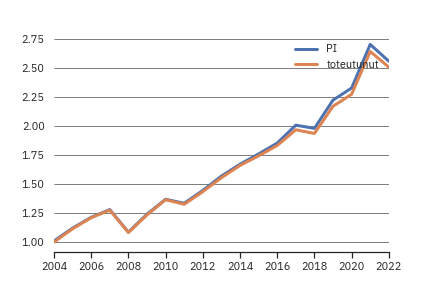
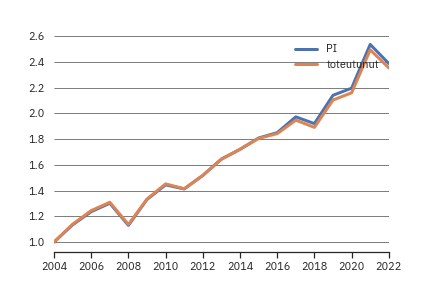
osakkeet

diff --git a/_posts/2022-10-14-sijoitusriski.md b/_posts/2022-10-14-sijoitusriski.md
@@ -1,6 +1,6 @@
 ---
 title: 'Pitäisikö työeläkkeissä sijoittaa osakkeisiin enemmän?'
-date: 2022-10-25
+date: 2022-10-26
 permalink: /posts/2022/10/osakkeet/
 image: /images/pts/2men.png
 largeimage: /images/pts/2men.png
@@ -11,79 +11,104 @@ tags:
   - sijoittaminen
 ---
 
-Työeläkejärjestelmä sijoittaa varat tuottavasti ja turvaavasti. Paino on perinteisesti ollut turvaavuuden puolella, mutta viimeisten 5 vuoden aikana
-osakeriskin osuutta on kasvatettu ja tuotot ovat olleet hyviä. Voisiko osakepainoa nostaa edelleen?
+Osakkeet ovat olleet työeläkeyhtiöille loistava sijoituskohde viime vuosina.
+Vuoden 2017 uudistuksessa osakesijoitusten osuutta lisättiin ja se on kannattanut hyvin. 
+Varoja on kertynyt arviolta 5,4 miljardia euroa enemmän uudistuksen ansiosta. Mutta jäikö matka kesken?
+Pitäisikö osakkeiden osuutta lisätä edelleen?
 
-![Reaalituotot](/images/pts/tuotot_toteuma.png)
-Kuvio 1. Reaaliset vuosituotot TyELissä vuosina 2006 - 2021. Vuoden 2022 tuotot ovat alkuvuoden tuotot.
+Työeläkejärjestelmän horisontti on pitkä. Viimeiset eläkejärjestelmän jo tehdyistä eläkelupauksista toteutuu vasta sadan vuoden päästä.
+Eläkejärjestelmän on turha katsoa liikaa seuraavan neljännesvuoden tuottoja. Tähtäin pitää olla pidemmällä: työeläkkeissä
+kvartaali kestää 25 vuotta. Tämä mahdollistaa nykyistä korkeamman sijoitusriskitason. 
 
-Viime vuosina sijoitustuotot ovat olleet hyviä (Kuvio 2). 
-Korkean inflaation vuoksi vuoden 2022 heinäkuun alkuun mennessä tulleet tuotot ovat reaalisesti erittäin heikot.
-
-Sijoitustuotot riippuvat sijoitusjakaumasta: mitä riskipitoisempi sijoitusjakauma, sitä parempia ovat tuotot.
-Sijoitusjakauman riskipitoisuutta taas säädetään markkinanäkemyksen ja riskinkantokyvyn perusteella. Laitoksen vakavaraisuus
-taas määrittää riskinkantokykyä. 
-
-Vuoden 2017 eläkeuudistuksessa sovittiin sijoitusriskin lisäämisestä, kun osaketuottosidonnaista vastuuta 
-OLVia nostettiin 10 prosentista 20 prosenttiin. Osin sen ansiosta
-työeläkelaitokset ovat saaneet parempia tuottoja. 
-
-![Tuotot](/images/tuotot/allo.png)
-Kuvio 2. Reaaliset vuosituotot TyELissä vuosina 2006 - 2021. Vuoden 2022 tuotot ovat alkuvuoden tuotot.
-
-Kuviosta 2 näkyy, miten osakesijoitusten osuus työeläkelaitosten salkuissa on kasvanut. Samaan aikaan
-korkosijoitusten osuus on laskenut. Kiinteistöjen osuus on pysynyt ennallaan, mutta muiden sijoitusten 
-osuus on kasvanut. Muut sijoitukset pitävät sisällään mm. Hedge fund-sijoitukset. Tiedetään, että HF-sijoitukset
-ovat usein korreloituneet voimakkaasti osakkeiden kanssa. 
-
-![](/images/pts/sp500_vs_tyel.png)
-Kuvio 6. TyELin nimelliset tuotot verrattuna S&P500:n nimellisiin tuottoihin
-
-Osakepaino
+Eläkeuudistus 2017 
 =====
 
-Paljonko työeläkelaitokset sitten sijoittavat osakkeisiin tai osakeriskiin? Katsotaan ensin, miltä vuosituottojen
-korrelaatiot näyttävät
+Vuoden 2017 uudistuksessa osakepainoa nostettiin 10 prosenttiyksikköä. Karkeasti laskien sen vaikutus on
+ollut 5,4 miljardia euroa enemmän sijoitusvaroja TyELissä 2022Q2:een mennessä. Kun kaikkiaan TyEL-varoja on 
+150 miljardia euroa, on uudistus ollut melko onnistunut. Laskenta perustuu [aiemman blogin laskentamalliin](http:/posts/2022/10/allokaatio/).
 
-![Korrelaatiot](/images/tuotot/korrelaatio.png)
+![Tuotot](/images/tuotot/OLVmatala_varat.png)
 
-Taulukko 1. Korrelaatiot TyEL-vuosituottojen välillä
+Kuvio 3. Vuoden 2017 eläkeuudistus paransi myös sijoitustuottoja. Olv<2017 kertoo, mikä tilanne olisi ollut aiemmilla
+sijoitussäännöillä. Toteutunut kertoo, mikä se on ollut uudistetuilla säännöillä.
 
-Korrelaatiot eri tuottojen välillä ovat korkeita (Taulukko 1). Erityisesti Muut-Osake -korrelaatio on korkea, noin 75 prosenttia.
-Tämä tarkoittaa, että Muut -luokan kautta otetaan merkittävässä määrin osakeriskiä. Vielä yllättävämpi on korko- ja
-osaketuottojen välinen korrelaatio 58 prosenttia.  
+Hyvien osaketuottojen ansiosta varoja on kertynyt selvästi enemmän.
 
-Oletaanpa sitten argumentin vuoksi, että työeläkelaitokset sijoittaisivat samalla sijoitusjakaumalla
-koko välin 2006-2022. Miten hyvin tällainen approksimaatio toistaisi havaitut tuotot?
-
-![](/images/tuotot/alloennuste.png)
-
-Kuvio 3. Todellinen keskimääräinen TyEL-yhtiöiden sijoitusjakauma verrattuna regressiolla löydettyyn jakaumaan vuosina 2005-2022.
-
-![](/images/tuotot/sovite.png)
-
-Kuvio 4. TyElin kokonaistuotto verrattuna kiinteällä allokaatiolla saatuun tuottoon.
-
-Vakioallokaatiolla päästään hyvin lähelle todellista tyel-yhtiöiden sijoitustuottoa.
-
-Osakepaino on regressiossa 56 prosenttia vuodesta 2015 alkaen. [ETK:n arvio PTS-2022:ssa]()
-on 59,7 prosenttia osakkeet ja muut sijoitukset.
-
-Miten hyvin vakioallokaatio toistaa tuotot ajan yli? Lähdetään liikkeelle 100 yksikön sijoituksesta 2005 ja
-annetaan varojen kehittyä vakioallokaatioiden mukaan.
-
-![](/images/tuotot/kumulaatio.png)
-
-Kuvio 6. 
-
-
-Entä jos osakepainoa nostettaisiin?
+Entä jos osakepainoa olisi nostettu enemmän?
 =====
 
+Reippaampi uudistus 2017
+-----
+
+Mitä jos osaketuottosidonnaisuuden aste olisi nostettu 30 prosenttiin 20 prosentin sijasta vuonna 2017? 
+Tällöin TyEL-varat olisivat kehittyneet, kuten kuvassa 3. Tuotto olisi ollut nykyistä 0,39 prosenttia parempi
+ja varoja olisi ollut 2022Q2 9,9 miljardia euroa enemmän.
+
+![Tuotot](/images/tuotot/OLVkorkea_varat.png)
+
+Kuvio 4. Entä jos osaketuottosidonnaisuutta olisi nostettu 30 prosenttiin vuonna 2017?
+
+Jos uudistuksessa tuottovaateen osakepaino olisi nostettu 30 prosenttiyksikköön, olisi varoja 5,3 miljardia euroa nykyistä enemmän. 
+Tuotto laskettuna koko periodille 2005-2022 oli noussut 0,39 prosenttia 5,4 prosenttiin.
+
+OLV 30
+-----
+
+Jos alkuperäinen OLV-uudistus 2007 olisi ollut reipas ja osakepaino olisi noussut 30 prosenttia, olisi varoja merkittävästi enemmän.
+Kuvio 5 näyttää vaikutukset.
+
+![Tuotot](/images/tuotot/OLV30_varat.png)
+
+Kuvio 5. Varat, jos OLV 30 vuodesta 2007
+
+Osakepainon kasvattaminen olisi lisännyt tuottojen heiluntaa. Finanssikriisissä 2008 tiputus olisi ollut suurempi,
+mutta varat olisivat kasvaneet pudotuksen kiinni ja vuonna 2022 varoja olisi ollut 15,4 mrd euroa enemmän.
+Geometrisesti lasketut tuotot olisivat kasvaneet 0,59 prosenttia 5,60 prosenttiin.
+
+![Tuotot](/images/tuotot/OLV30_tuotot.png)
+
+Kuvio 6. Tuottojen heilunta, jos OLV 30 vuodesta 2007
+
+![Tuotot](/images/tuotot/OLV30_allo.png)
+
+Kuvio 7. Osakepaino OLV 30
+
+Vaikka tämä uudistus olisi loppujen lopuksi tuonut enemmän varoja, olisi uskoa koeteltu vuosina 2008-2014.
+
+OLV + 10
+-----
+
+Jos alkuperäinen OLV-uudistus 2007 olisi ollut reipas ja osakepainoa olisi noustettu 10 prosenttia, olisi varoja merkittävästi enemmän.
+Kuvio 5 näyttää vaikutukset.
+
+![Tuotot](/images/tuotot/OLVplus10_varat.png)
+
+Kuvio 5. Varat, jos OLV+10 vuodesta 2007
+
+Osakepainon kasvattaminen olisi lisännyt tuottojen heiluntaa. Finanssikriisissä 2008 tiputus olisi ollut suurempi, mutta ei yhtä suuri
+kuin OLV30-mallissa yllä. 
+mutta varat olisivat kasvaneet pudotuksen kiinni 2013 ja vuonna 2022 varoja olisi ollut 12,6 mrd euroa enemmän.
+Geometrisesti lasketut tuotot olisivat kasvaneet 0,49 prosenttia 5,50 prosenttiin.
+
+![Tuotot](/images/tuotot/OLVplus10_tuotot.png)
+
+Kuvio 6. Tuottojen heilunta, jos OLV 30 vuodesta 2007
+
+![Tuotot](/images/tuotot/OLVplus10_osake.png)
+
+Kuvio 7. Osakepaino OLV+10
 
 
-
-Lopuksi
+Voisiko työeläkkeissä sijoittaa enemmän osakkeisiin?
 =====
 
-Osake
+VUosien 2005-2022 välillä on ollut monta kriisiä: Finanssikriisi, Eurokriisi, Koronakriisi ja Ukrainan sota.
+Näistä huolimatta korkeampi osakepaino olisi tuottanut merkittävästi paremmin kuin toteuma. Tämä kertoo, että osakepainoa nostamalla
+lienee edelleen mahdollista parantaa sijoitustuottoja, ainakin jos tulevaisuus muistuttaa ollenkaan viimeisiä 17 vuotta.
+
+Nämä laskelmat tukevat sitä, että osakepainoa voisi nostaa nykyisestä ainakin 10 prosenttiyksikköä. Johtopäätös ei muutu, vaikka finanssikriisi huomioidaan
+laskelmissa. Tällainen osakepainon muutos olisi tarkoittanut, että TyELissä olisi ollut 12-15 mrd euroa enemmän sijoitusvaroja kesällä 2022.
+
+Jälkiviisaus on toki aina vähän tympeää. Silti on aiheellista kysyä, olisiko tällä kertaa rohkeutta
+päivittää työeläkkeiden sijoituspolitiikka pitkän horisontin mukaiselle tasolle? Käytännössä se tarkoittaisi
+sijoitusriskitason kasvattamista, mikä onnistuisi helpoimmin osakepainoa tavalla tai toisella nostamalla. 
